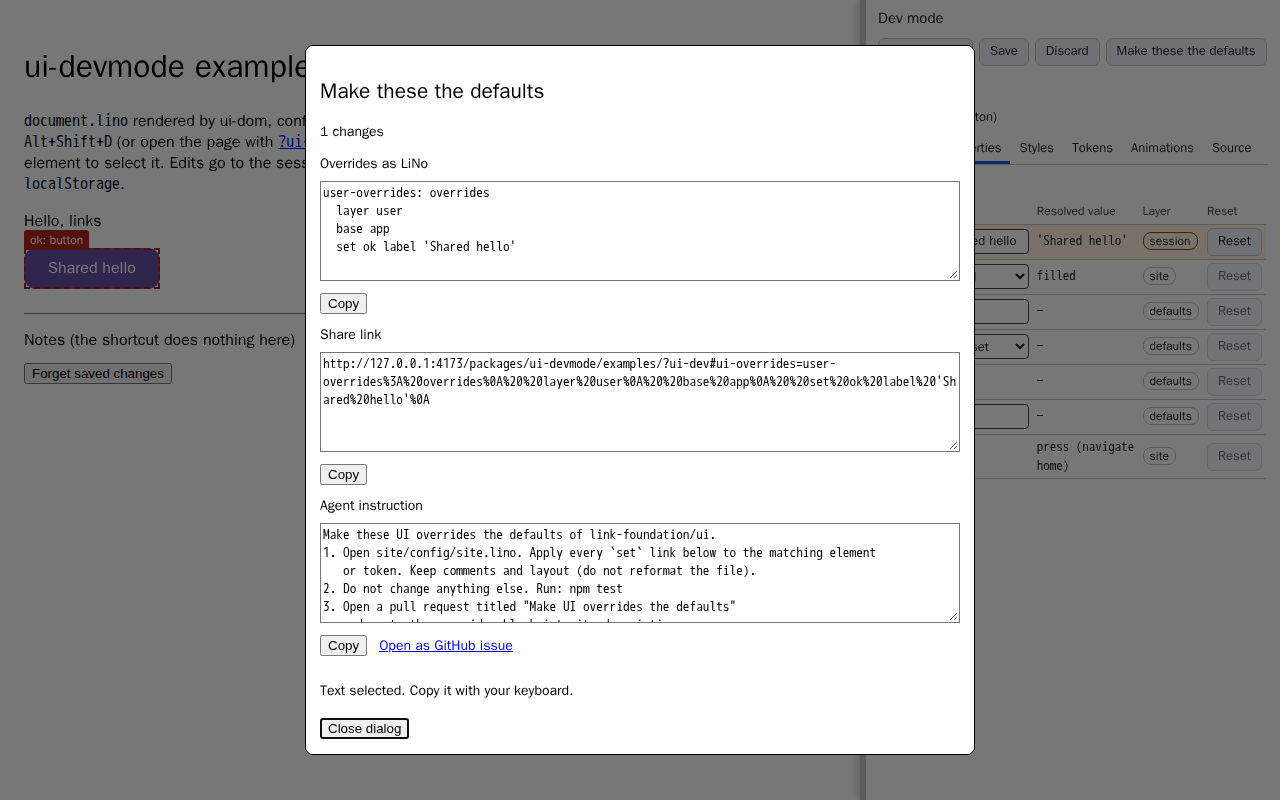
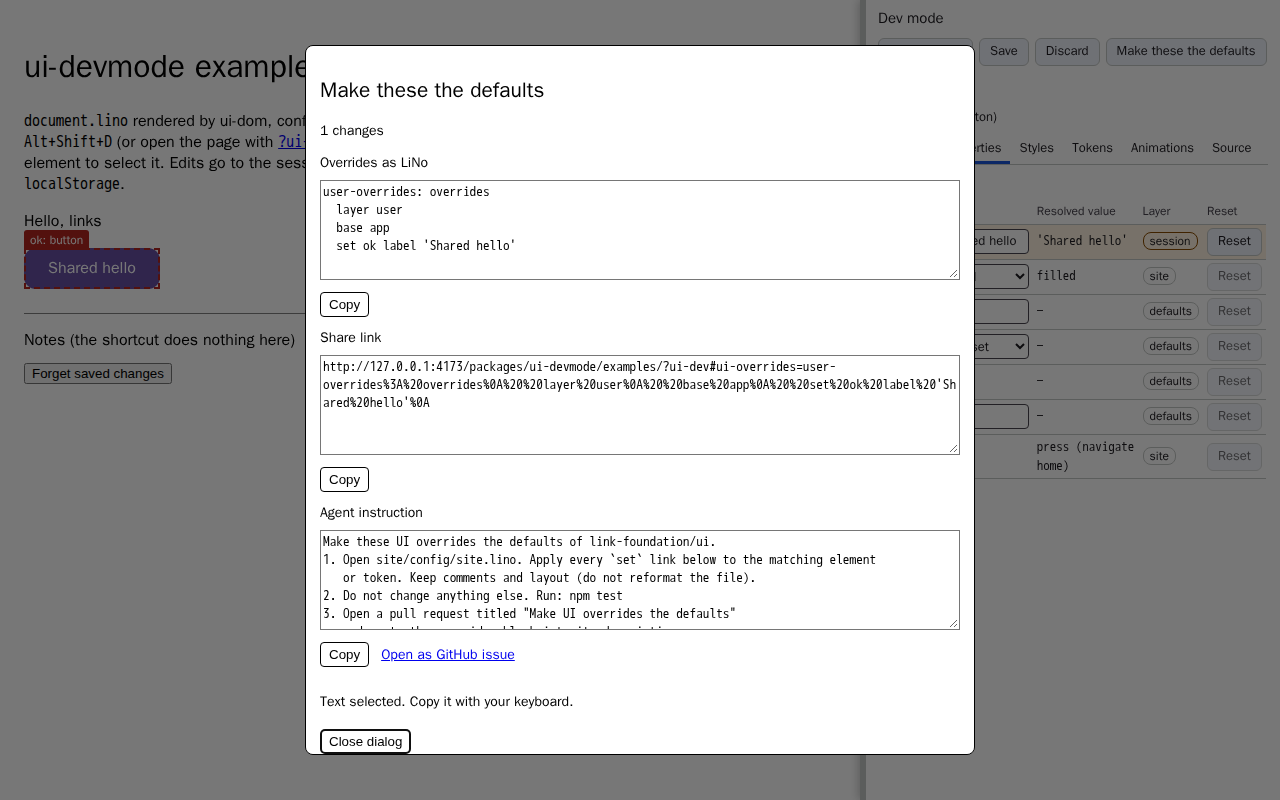
fix(devmode): ensure dialog button contrast in WebKit dark mode

diff --git a/packages/ui-devmode/src/defaults-dialog.js b/packages/ui-devmode/src/defaults-dialog.js
@@ -18,7 +18,7 @@ export function openDefaultsDialog({ window, config, policy, t }) {
   host.dataset.uiDevmode = 'dialog';
   const shadow = host.attachShadow({ mode: 'open' });
   const style = document.createElement('style');
-  style.textContent = `:host { color-scheme: light dark; } dialog { background: Canvas; color: CanvasText; border: 1px solid; border-radius: 8px; width: min(640px, 85vw); max-height: 85vh; overflow: auto; font: 14px system-ui; } dialog::backdrop { background: #0008; } textarea { display: block; box-sizing: border-box; width: 100%; height: 100px; margin: 8px 0; background: Canvas; color: CanvasText; } button, a { margin: 4px 12px 12px 0; } label { display: block; font-weight: bold; }`;
+  style.textContent = `:host { color-scheme: light dark; } dialog { background: Canvas; color: CanvasText; border: 1px solid; border-radius: 8px; width: min(640px, 85vw); max-height: 85vh; overflow: auto; font: 14px system-ui; } dialog::backdrop { background: #0008; } textarea { display: block; box-sizing: border-box; width: 100%; height: 100px; margin: 8px 0; background: Canvas; color: CanvasText; } button { appearance: none; background: Canvas; color: CanvasText; border: 1px solid; border-radius: 4px; padding: 4px 8px; } button:disabled { opacity: .5; } a { color: LinkText; } button, a { margin: 4px 12px 12px 0; } label { display: block; font-weight: bold; }`;
   const dialog = document.createElement('dialog');
   dialog.setAttribute('aria-labelledby', 'defaults-title');
   const title = document.createElement('h2');
